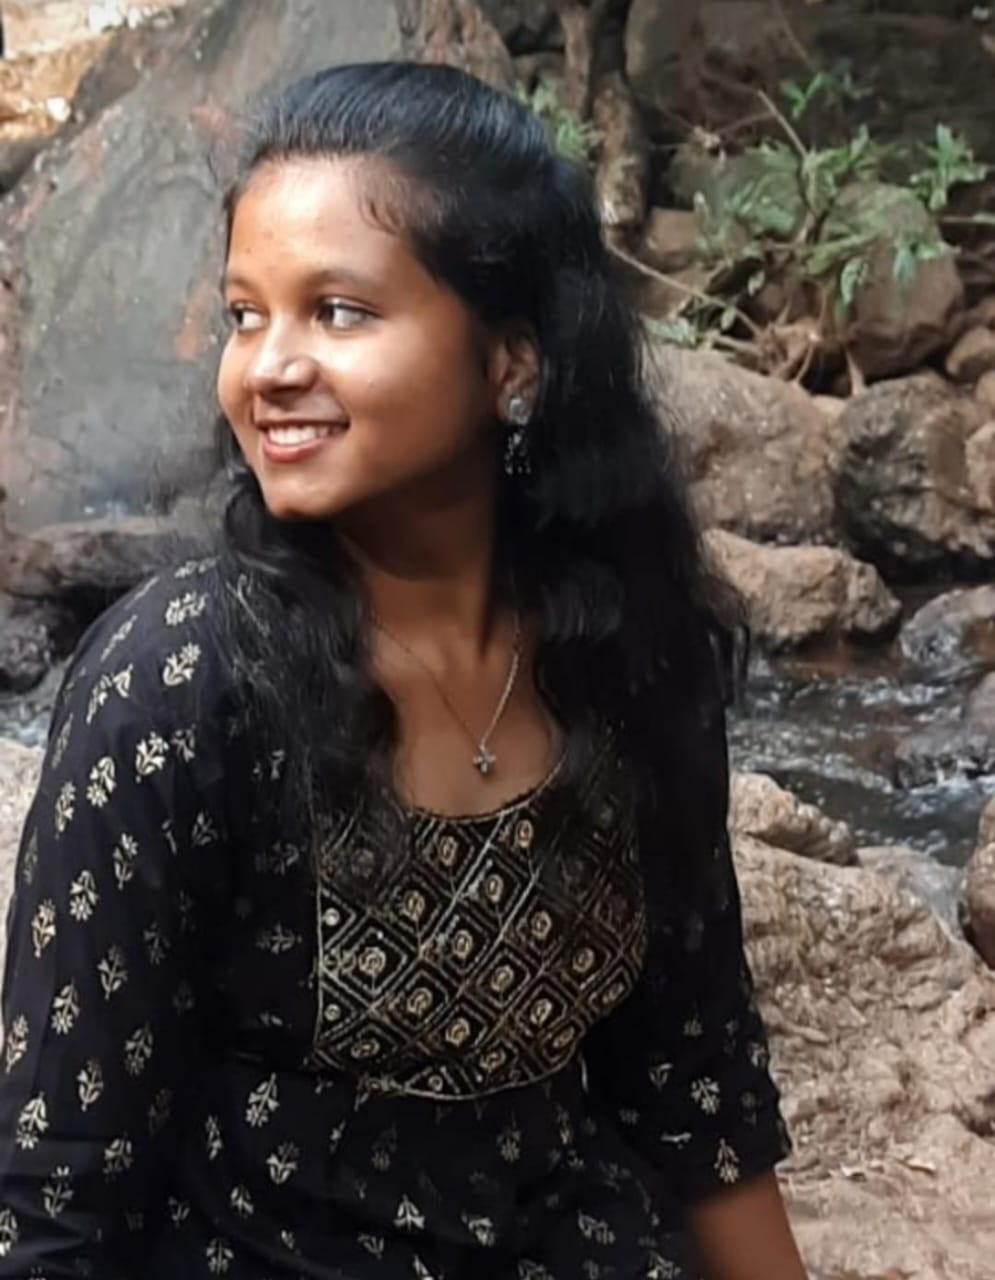
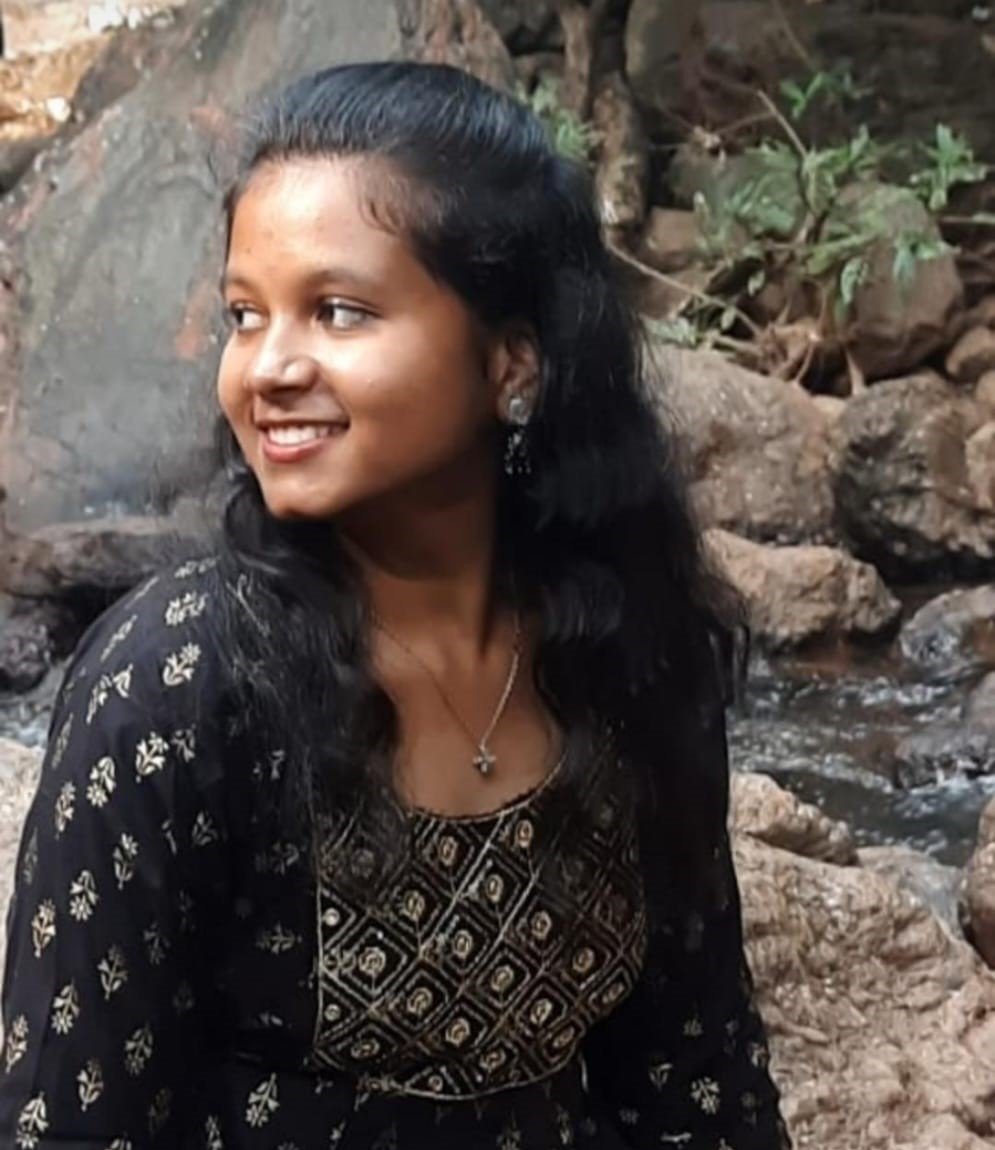
Add files via upload

diff --git a/barsa kujur/protfolio/index.html b/barsa kujur/protfolio/index.html
@@ -1,0 +1,214 @@
+<!DOCTYPE html>
+<html lang="en">
+
+<head>
+    <meta charset="UTF-8" >
+    <meta http-equiv="X-UA-Compatible" content="IE=edge" >
+    <meta name="viewport" content="width=device-width, initial-scale=1.0" >
+    <title>Portfolio</title>
+
+    <link rel="stylesheet" href="stylesheet.css">
+    <link href='https://unpkg.com/boxicons@2.1.4/css/boxicons.min.css' rel='stylesheet'>
+</head>
+
+<body class="profile">
+    <nav id="navbar" class="nav">
+        <ul>
+            <li>
+                <a href="#welcome-section">My identity</a>
+            </li>
+            <li>
+                <a href="#projects">About and Work</a>
+            </li>
+            <li>
+                <a href="#contact">Contact</a>
+            </li>
+        </ul>
+    </nav>
+
+
+
+    <section class="home" >
+        
+        <div class="home-content">
+            <h3>Hello, I'm</h3>
+            <h1>Barsa Kujur</h1>
+            <h3>I'm 19 years old</h3>
+            <p>I'm from Rourkela currently pursuing my Bachelores of Technology degree from
+                <br> Veer Surendra Sai University of Technology in Information Technology</p>
+            <div class="home-sci">
+                <a href="https://www.instagram.com/barsa0105056?igsh=MTFuNjk4OWRoN2o0dg=="><i class="bx bxl-instagram"></i></a>
+                <a href="https://wa.me/qr/YPO2YQAXHMNEL1"><i class="bx bxl-whatsapp"></i></a>
+                <a href="https://www.linkedin.com/in/barsa-kujur-37ba43291?utm_source=share&utm_campaign=share_via&utm_content=profile&utm_medium=android_app"><i class="bx bxl-linkedin"></i></a>
+                
+            </div>
+
+        </div>
+        <div class="image">
+            <img src="me.jpg">
+        </div>
+    </section>
+
+
+    
+
+
+
+
+
+    <section id="projects" class="project-section">
+        <h2 class="projects-section-header">My Project's and About me</h2>
+
+        <div class="projects-grid">
+            <a href="https://github.com/BarsaKujur/projects/tree/main/projects" target="_blank" class="project project-tile">
+                <img class="project-image"
+                    src="https://images.pexels.com/photos/3861959/pexels-photo-3861959.jpeg?auto=compress&cs=tinysrgb&w=1260&h=750&dpr=1" alt="project" />
+                <p class="project-title">
+
+                    Project 1
+
+                </p>
+            </a>
+
+            <a href="https://github.com/BarsaKujur/projects/tree/main/camera" target="_blank" class="project project-tile">
+                <img class="project-image"
+                    src="https://images.pexels.com/photos/574070/pexels-photo-574070.jpeg?auto=compress&cs=tinysrgb&w=1260&h=750&dpr=1"
+                    alt="project" >
+                <p class="project-title">
+
+                    project 2
+
+                </p>
+            </a>
+
+            <a href="https://github.com/BarsaKujur/projects/tree/main/flower" target="_blank" class="project project-tile">
+                <img class="project-image"
+                    src="https://images.pexels.com/photos/1181243/pexels-photo-1181243.jpeg?auto=compress&cs=tinysrgb&w=1260&h=750&dpr=1" alt="project" />
+                <p class="project-title">
+
+                    Project 3
+
+                </p>
+                
+                
+                <a href="About.html" target="_blank" class="project project-tile">
+                    <img class="project-image"
+                        src="https://images.pexels.com/photos/39853/woman-girl-freedom-happy-39853.jpeg?auto=compress&cs=tinysrgb&w=1260&h=750&dpr=1"
+                        alt="project" />
+                    <p class="project-title">
+    
+                        About Me
+    
+                    </p>
+                </a>
+
+            
+            
+
+            <a href="Interest.html" target="_blank" class="project project-tile">
+                <img class="project-image"
+                    src="https://images.pexels.com/photos/5473955/pexels-photo-5473955.jpeg?auto=compress&cs=tinysrgb&w=1260&h=750&dpr=1"
+                    alt="project" />
+                <p class="project-title">
+
+                    My intrests
+
+                </p>
+            </a>
+
+            <a href="want.html" target="_blank" class="project project-tile">
+                <img class="project-image"
+                    src="https://images.pexels.com/photos/3811074/pexels-photo-3811074.jpeg?auto=compress&cs=tinysrgb&w=1260&h=750&dpr=1"
+                    alt="project" />
+                <p class="project-title">
+
+                    What I want to do
+
+                </p>
+            </a>
+
+            <a  target="_blank" class="project project-tile">
+            <img class="project-image"
+            src="me.jpg"
+            alt="project" />
+            <p class="project-title">
+
+                Gallery
+
+            </p>
+            </a>
+            <a  target="_blank" class="project project-tile">
+            <img class="project-image"
+            src="me.jpg"
+            alt="project" />
+            <p class="project-title">
+
+                Gallery
+
+            </p>
+
+            </a>
+
+            <a  target="_blank" class="project project-tile">
+            <img class="project-image"
+            src="me.jpg"
+            alt="project" />
+            <p class="project-title">
+
+                Gallery
+
+            </p>
+            </a>
+           
+
+        </div>
+
+
+    </section>
+
+
+    
+
+
+    <section id="contact" class="contact-section">
+        <div class="contact-section-header">
+            <h2 id="con">My Contacts Info</h2>
+        </div>
+        <section id="contact" class="contact-section">
+            
+            <div >
+                <div >
+                    <div>
+                        <p >Here's My Contact Info</p>
+                        <div >My Email:</div>
+                        <div >barsa010719@gmail.com</div>
+                        <div >My Phone No:</div>
+                        <div >+91 9692XXXXXX</div>
+                        <div >My Address:</div>
+                        <div >RourKela </div>
+                    </div>
+                </div>
+            </div>
+        </section>
+    </section>
+
+   
+
+    <footer >
+        <div class="container">
+           
+                <div class="col-md-6">
+                            <p class="text-white">Trying to learn new things and uplift my skills</p>
+                </div>
+        </div>     
+            <div class="row">
+                <div class="text-white text-center">
+                    <p id="foot">
+                        &copy; 2024, Made with ❤ by Barsa Kujur
+                </div>
+            </div>
+        </div>
+    </footer>
+</body>
+
+</html>

diff --git a/barsa kujur/protfolio/want.html b/barsa kujur/protfolio/want.html
@@ -1,0 +1,51 @@
+<!DOCTYPE html>
+<html lang="en">
+
+<head>
+    <meta charset="UTF-8" >
+    <meta http-equiv="X-UA-Compatible" content="IE=edge" />
+    <meta name="viewport" content="width=device-width, initial-scale=1.0" >
+    <style>
+        body {
+    min-height: 100vh;
+    display: flex;
+align-items: center;
+justify-content: center;
+padding: 20px;
+background:url("https://images.pexels.com/photos/17822918/pexels-photo-17822918/free-photo-of-turtle-swimming-in-the-sea.jpeg?auto=compress&cs=tinysrgb&w=1260&h=750&dpr=1");
+
+  
+}
+        .container {
+            position: relative;
+            max-width: 700px;
+            width: 100%;
+            background-color:  rgba(0, 0,0, 0.5);
+            padding: 25px;
+            border-radius: 8px;
+            box-shadow: 0 0 15px #f4f5f4;
+            text-align: center;
+            color:#f4f5f4;
+        }
+        .container-header {
+font-size: 1.5rem;
+color: white;
+font-weight: 500;
+text-align: center;
+}
+
+    </style>
+</head>
+<body>
+    <section class="container">
+        <p>
+            <div class="container-header"><h1><u><b>What I want to do:</b></u></h1> </div>
+            <br>
+            <h2>Just want to learn New things as much as possible  <br>
+                I want to explore every possible things, <br>
+                and understand the reality of this world
+        <br> and over rule my self every time....waana<br>be a winner within me </h2>
+        </p>
+    </section>
+
+</body>

diff --git a/barsa kujur/protfolio/About.html b/barsa kujur/protfolio/About.html
@@ -1,0 +1,49 @@
+<!DOCTYPE html>
+<html lang="en">
+
+<head>
+    <meta charset="UTF-8" >
+    <meta http-equiv="X-UA-Compatible" content="IE=edge" />
+    <meta name="viewport" content="width=device-width, initial-scale=1.0" >
+    <style>
+        body {
+    min-height: 100vh;
+    display: flex;
+align-items: center;
+justify-content: center;
+padding: 20px;
+background:url("https://images.pexels.com/photos/6194837/pexels-photo-6194837.jpeg?auto=compress&cs=tinysrgb&w=1260&h=750&dpr=1");
+  
+}
+        .container {
+            position: relative;
+            max-width: 700px;
+            width: 100%;
+            background-color:  rgba(0, 0,0, 0.5);
+            padding: 25px;
+            border-radius: 8px;
+            box-shadow: 0 0 15px #f4f5f4;
+            text-align: center;
+            color: #f4f5f4;
+        }
+        .container-header {
+font-size: 1.5rem;
+color: white;
+font-weight: 500;
+text-align: center;
+}
+
+    </style>
+</head>
+<body>
+    <section class="container">
+        <p>
+            <div class="container-header"><h1><u><b>About me:</b></u></h1> </div>
+            <br>
+            <h2>My Name is barsa Kujur, I am from Rourkela <br>
+            currently pursuing my Bachelores of Technology degree
+        <br> from Veer Surendra University of Technology</h2>
+        </p>
+    </section>
+
+</body>

diff --git a/barsa kujur/protfolio/Interest.html b/barsa kujur/protfolio/Interest.html
@@ -1,0 +1,49 @@
+<!DOCTYPE html>
+<html lang="en">
+
+<head>
+    <meta charset="UTF-8" >
+    <meta http-equiv="X-UA-Compatible" content="IE=edge" />
+    <meta name="viewport" content="width=device-width, initial-scale=1.0" >
+    <style>
+        body {
+    min-height: 100vh;
+    display: flex;
+align-items: center;
+justify-content: center;
+padding: 20px;
+background:url("https://images.pexels.com/photos/1374064/pexels-photo-1374064.jpeg?auto=compress&cs=tinysrgb&w=1260&h=750&dpr=1");
+  
+}
+        .container {
+            position: relative;
+            max-width: 700px;
+            width: 100%;
+            background-color:  rgba(0, 0,0, 0.5);
+            padding: 25px;
+            border-radius: 8px;
+            box-shadow: 0 0 15px #f4f5f4;
+            text-align: center;
+            color: white;
+        }
+        .container-header {
+font-size: 1.5rem;
+color: white;
+font-weight: 500;
+text-align: center;
+}
+
+    </style>
+</head>
+<body>
+    <section class="container">
+        <p>
+            <div class="container-header"><h1><u><b>My Interest:</b></u></h1> </div>
+            <br>
+            <h2>In the way of finding my true interest <br>
+                I want to explore every possible things
+        <br> I love coding , dancing and watching drama's </h2>
+        </p>
+    </section>
+
+</body>

diff --git a/barsa kujur/protfolio/stylesheet.css b/barsa kujur/protfolio/stylesheet.css
@@ -31,6 +31,19 @@ html {
 }
 
 
+.image{
+  align-items: flex-end;
+  
+  border-radius: 50%;
+  height:100%;
+  width: 50%;
+  
+
+  
+
+}
+
+
 
 
 
